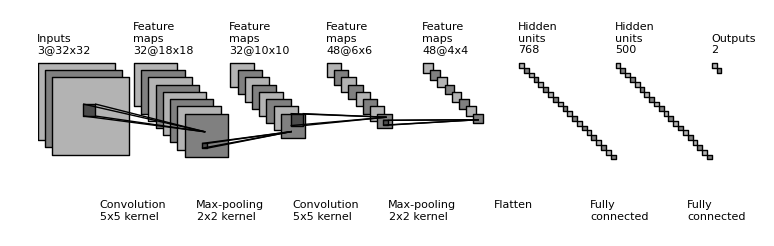
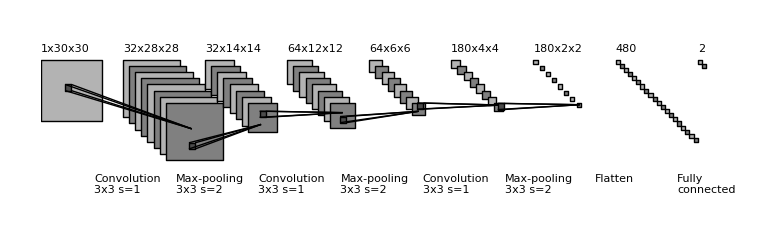
modified for personal use

diff --git a/draw_convnet.py b/draw_convnet.py
@@ -97,8 +97,8 @@ def add_mapping(patches, colors, start_ratio, patch_size, ind_bgn,
 
 
 def label(xy, text, xy_off=[0, 4]):
-    plt.text(xy[0] + xy_off[0], xy[1] + xy_off[1], text,
-             family='sans-serif', size=8)
+    plt.text(xy[0] + xy_off[0], xy[1] + xy_off[1], text,family='sans-serif', size=8)
+    
 
 
 if __name__ == '__main__':
@@ -114,12 +114,12 @@ if __name__ == '__main__':
 
     ############################
     # conv layers
-    size_list = [32, 18, 10, 6, 4]
-    num_list = [3, 32, 32, 48, 48]
-    x_diff_list = [0, layer_width, layer_width, layer_width, layer_width]
-    text_list = ['Inputs'] + ['Feature\nmaps'] * (len(size_list) - 1)
+    size_list = [30,28,14,12,6,4,2] # size of input layer and conv layer
+    num_list  = [1,32,32,64,64,180,180] # filter number of input layer and conv layer,same length as size_list
+    x_diff_list = [0] + [layer_width]*(len(size_list)-1)
+    # text_list = ['Inputs'] + ['Feature\nmaps'] * (len(size_list) - 1)
+    text_list = ['']*(len(size_list))
     loc_diff_list = [[3, -3]] * len(size_list)
-
     num_show_list = map(min, num_list, [NumConvMax] * len(num_list))
     top_left_list = np.c_[np.cumsum(x_diff_list), np.zeros(len(x_diff_list))]
 
@@ -127,42 +127,44 @@ if __name__ == '__main__':
         add_layer(patches, colors, size=size_list[ind],
                   num=num_show_list[ind],
                   top_left=top_left_list[ind], loc_diff=loc_diff_list[ind])
-        label(top_left_list[ind], text_list[ind] + '\n{}@{}x{}'.format(
+        label(top_left_list[ind], text_list[ind] + '\n{}x{}x{}'.format(
             num_list[ind], size_list[ind], size_list[ind]))
 
 
     ############################
     # in between layers
-    start_ratio_list = [[0.4, 0.5], [0.4, 0.8], [0.4, 0.5], [0.4, 0.8]]
-    patch_size_list = [5, 2, 5, 2]
+    start_ratio_list = [[0.4, 0.5], [0.4, 0.8]]*((len(size_list)-1)/2)
+    patch_size_list = [3, 3]*((len(size_list)-1)/2) # conv layer and pooling layer kernel size
+    stride_size_list = [1, 2]*((len(size_list)-1)/2) # stride of conv layer and pooling layer
     ind_bgn_list = range(len(patch_size_list))
-    text_list = ['Convolution', 'Max-pooling', 'Convolution', 'Max-pooling']
-
+    # text_list = ['Convolution', 'Max-pooling', 'Convolution', 'Max-pooling']
+    text_list = ['Convolution', 'Max-pooling']*((len(size_list)-1)/2)
     for ind in range(len(patch_size_list)):
         add_mapping(patches, colors, start_ratio_list[ind],
                     patch_size_list[ind], ind,
                     top_left_list, loc_diff_list, num_show_list, size_list)
-        label(top_left_list[ind], text_list[ind] + '\n{}x{} kernel'.format(
-            patch_size_list[ind], patch_size_list[ind]), xy_off=[26, -65])
+        label(top_left_list[ind], text_list[ind] + '\n{}x{} s={}'.format(
+            patch_size_list[ind], patch_size_list[ind],stride_size_list[ind]), xy_off=[26, -65])
 
 
     ############################
     # fully connected layers
-    size_list = [fc_unit_size, fc_unit_size, fc_unit_size]
-    num_list = [768, 500, 2]
+    num_list = [480, 2] # full connected layer
+    fc_length = len(num_list)
+    size_list = [fc_unit_size] * fc_length
     num_show_list = map(min, num_list, [NumFcMax] * len(num_list))
     x_diff_list = [sum(x_diff_list) + layer_width, layer_width, layer_width]
     top_left_list = np.c_[np.cumsum(x_diff_list), np.zeros(len(x_diff_list))]
     loc_diff_list = [[fc_unit_size, -fc_unit_size]] * len(top_left_list)
     text_list = ['Hidden\nunits'] * (len(size_list) - 1) + ['Outputs']
-
+    text_list =  ['']*len(size_list)
     for ind in range(len(size_list)):
         add_layer(patches, colors, size=size_list[ind], num=num_show_list[ind],
                   top_left=top_left_list[ind], loc_diff=loc_diff_list[ind])
         label(top_left_list[ind], text_list[ind] + '\n{}'.format(
             num_list[ind]))
 
-    text_list = ['Flatten\n', 'Fully\nconnected', 'Fully\nconnected']
+    text_list = ['Flatten\n'] + ['Fully\nconnected']*fc_length
 
     for ind in range(len(size_list)):
         label(top_left_list[ind], text_list[ind], xy_off=[-10, -65])

diff --git a/README.md b/README.md
@@ -4,3 +4,10 @@ Python script for illustrating Convolutional Neural Network (ConvNet)
 
 Example image
 ![](https://raw.githubusercontent.com/gwding/draw_convnet/master/convnet_fig.png)
+
+Modified by CamelShang in 2016/8/24
+- add some comments for your personal use
+- just change 
+  + size_list at line 127 and num_list at line 128
+  + patch_size_list at line 137 and stride_size_list at line 138
+  + num_list at line 152
